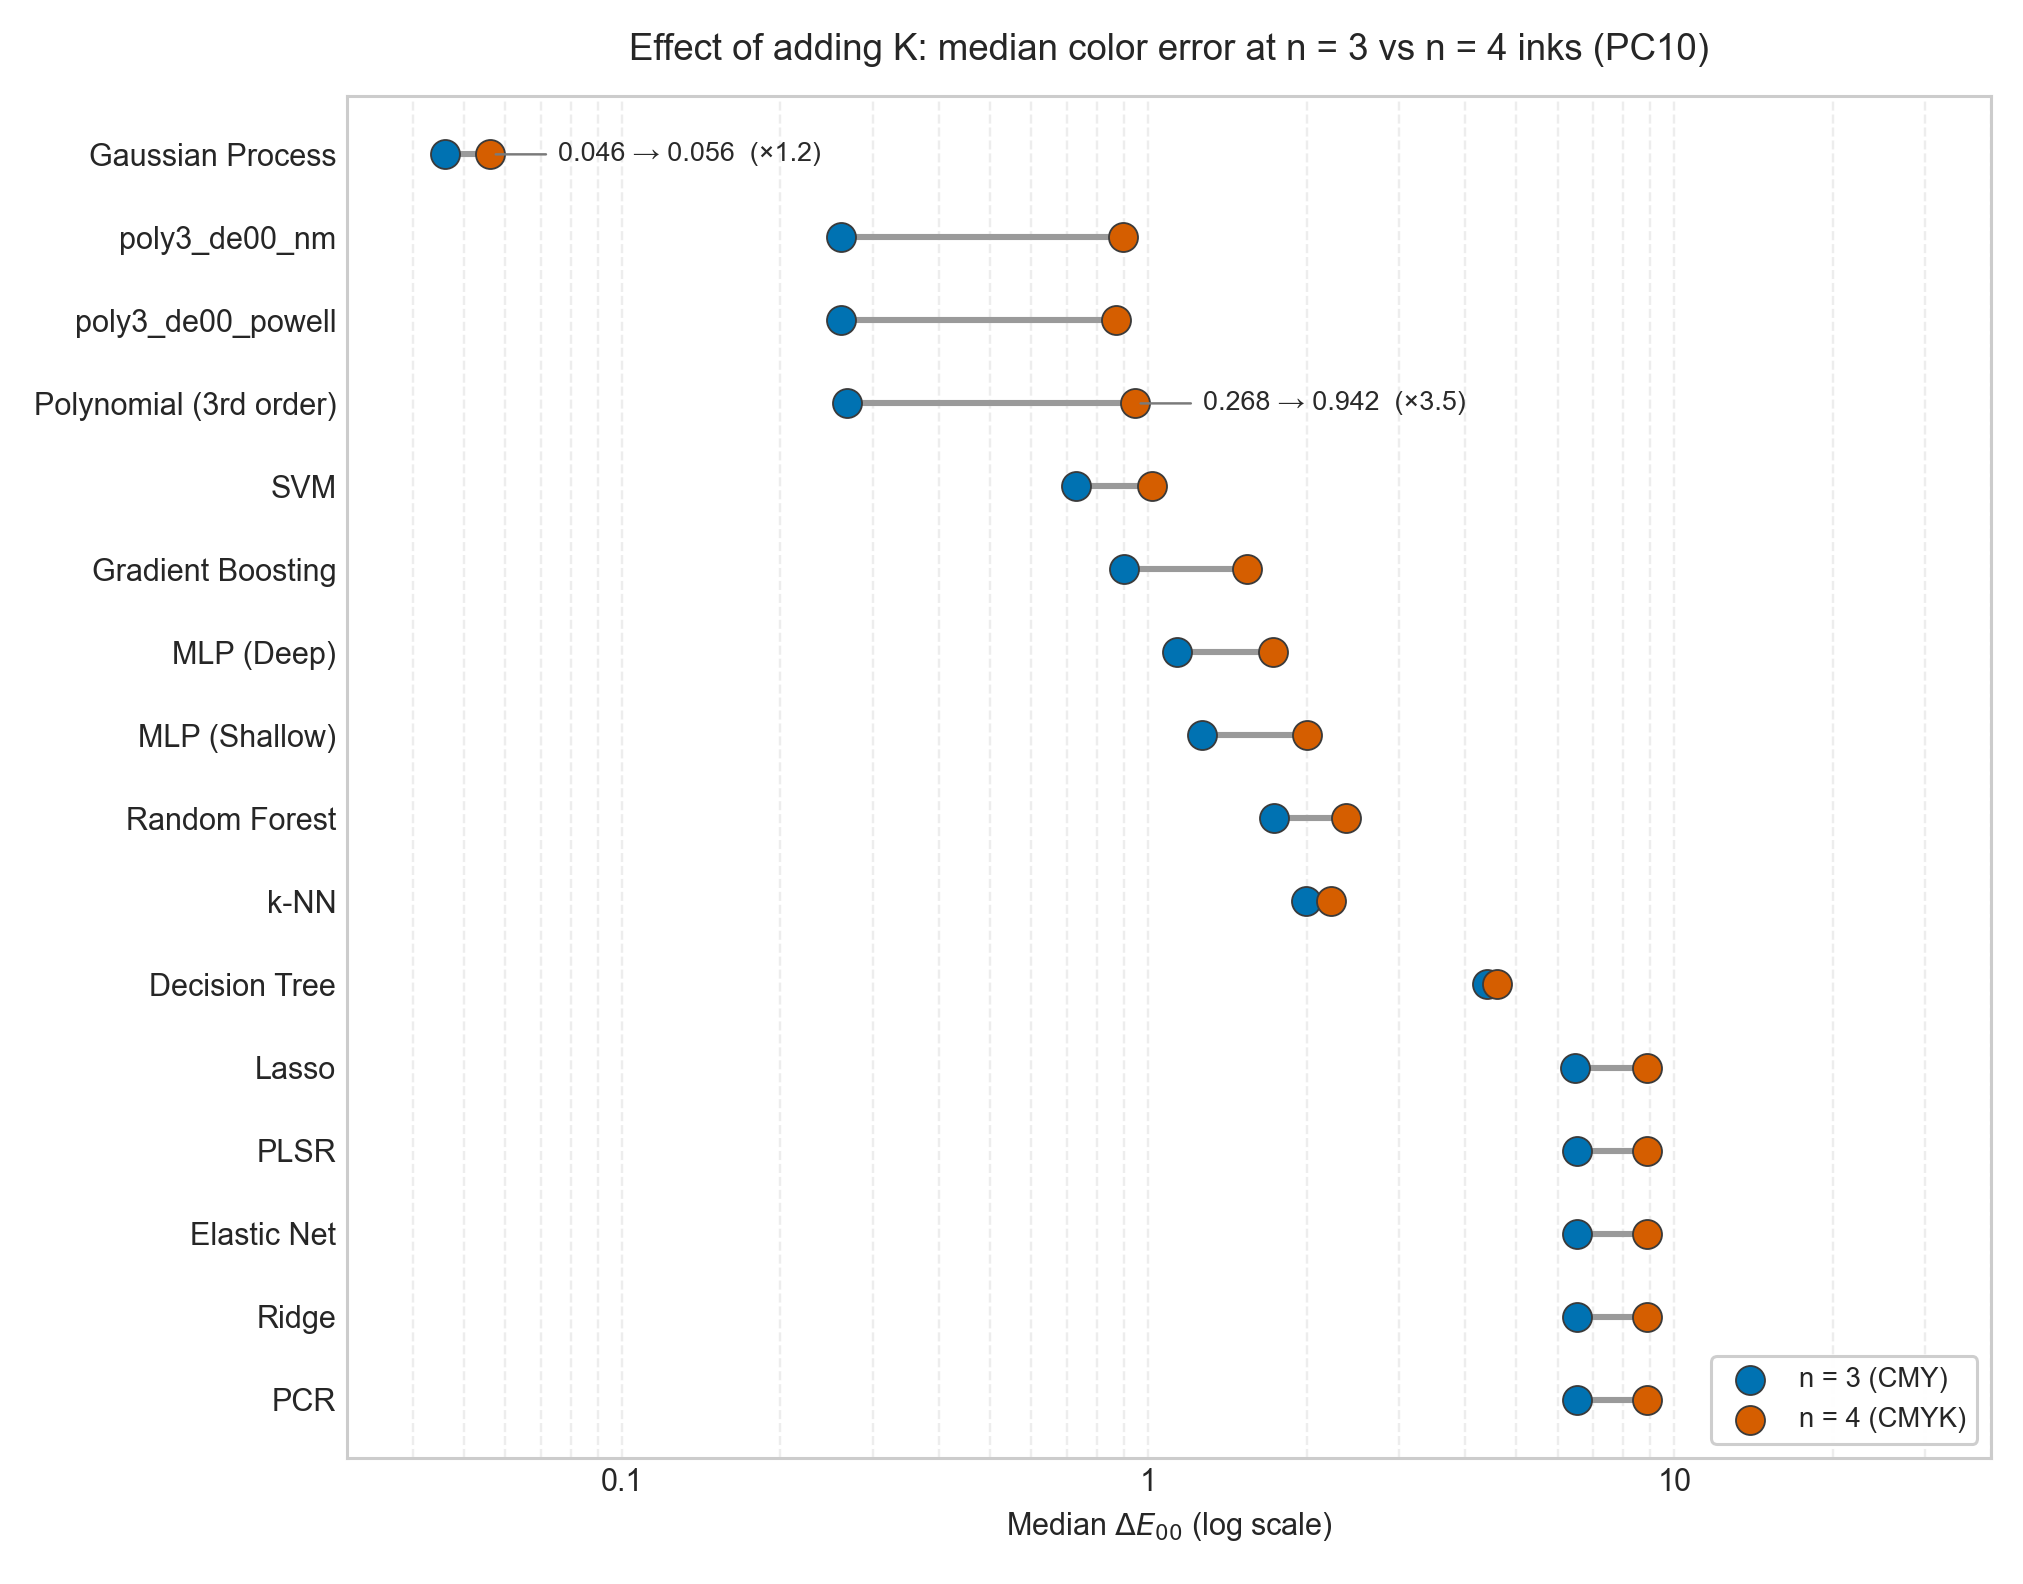
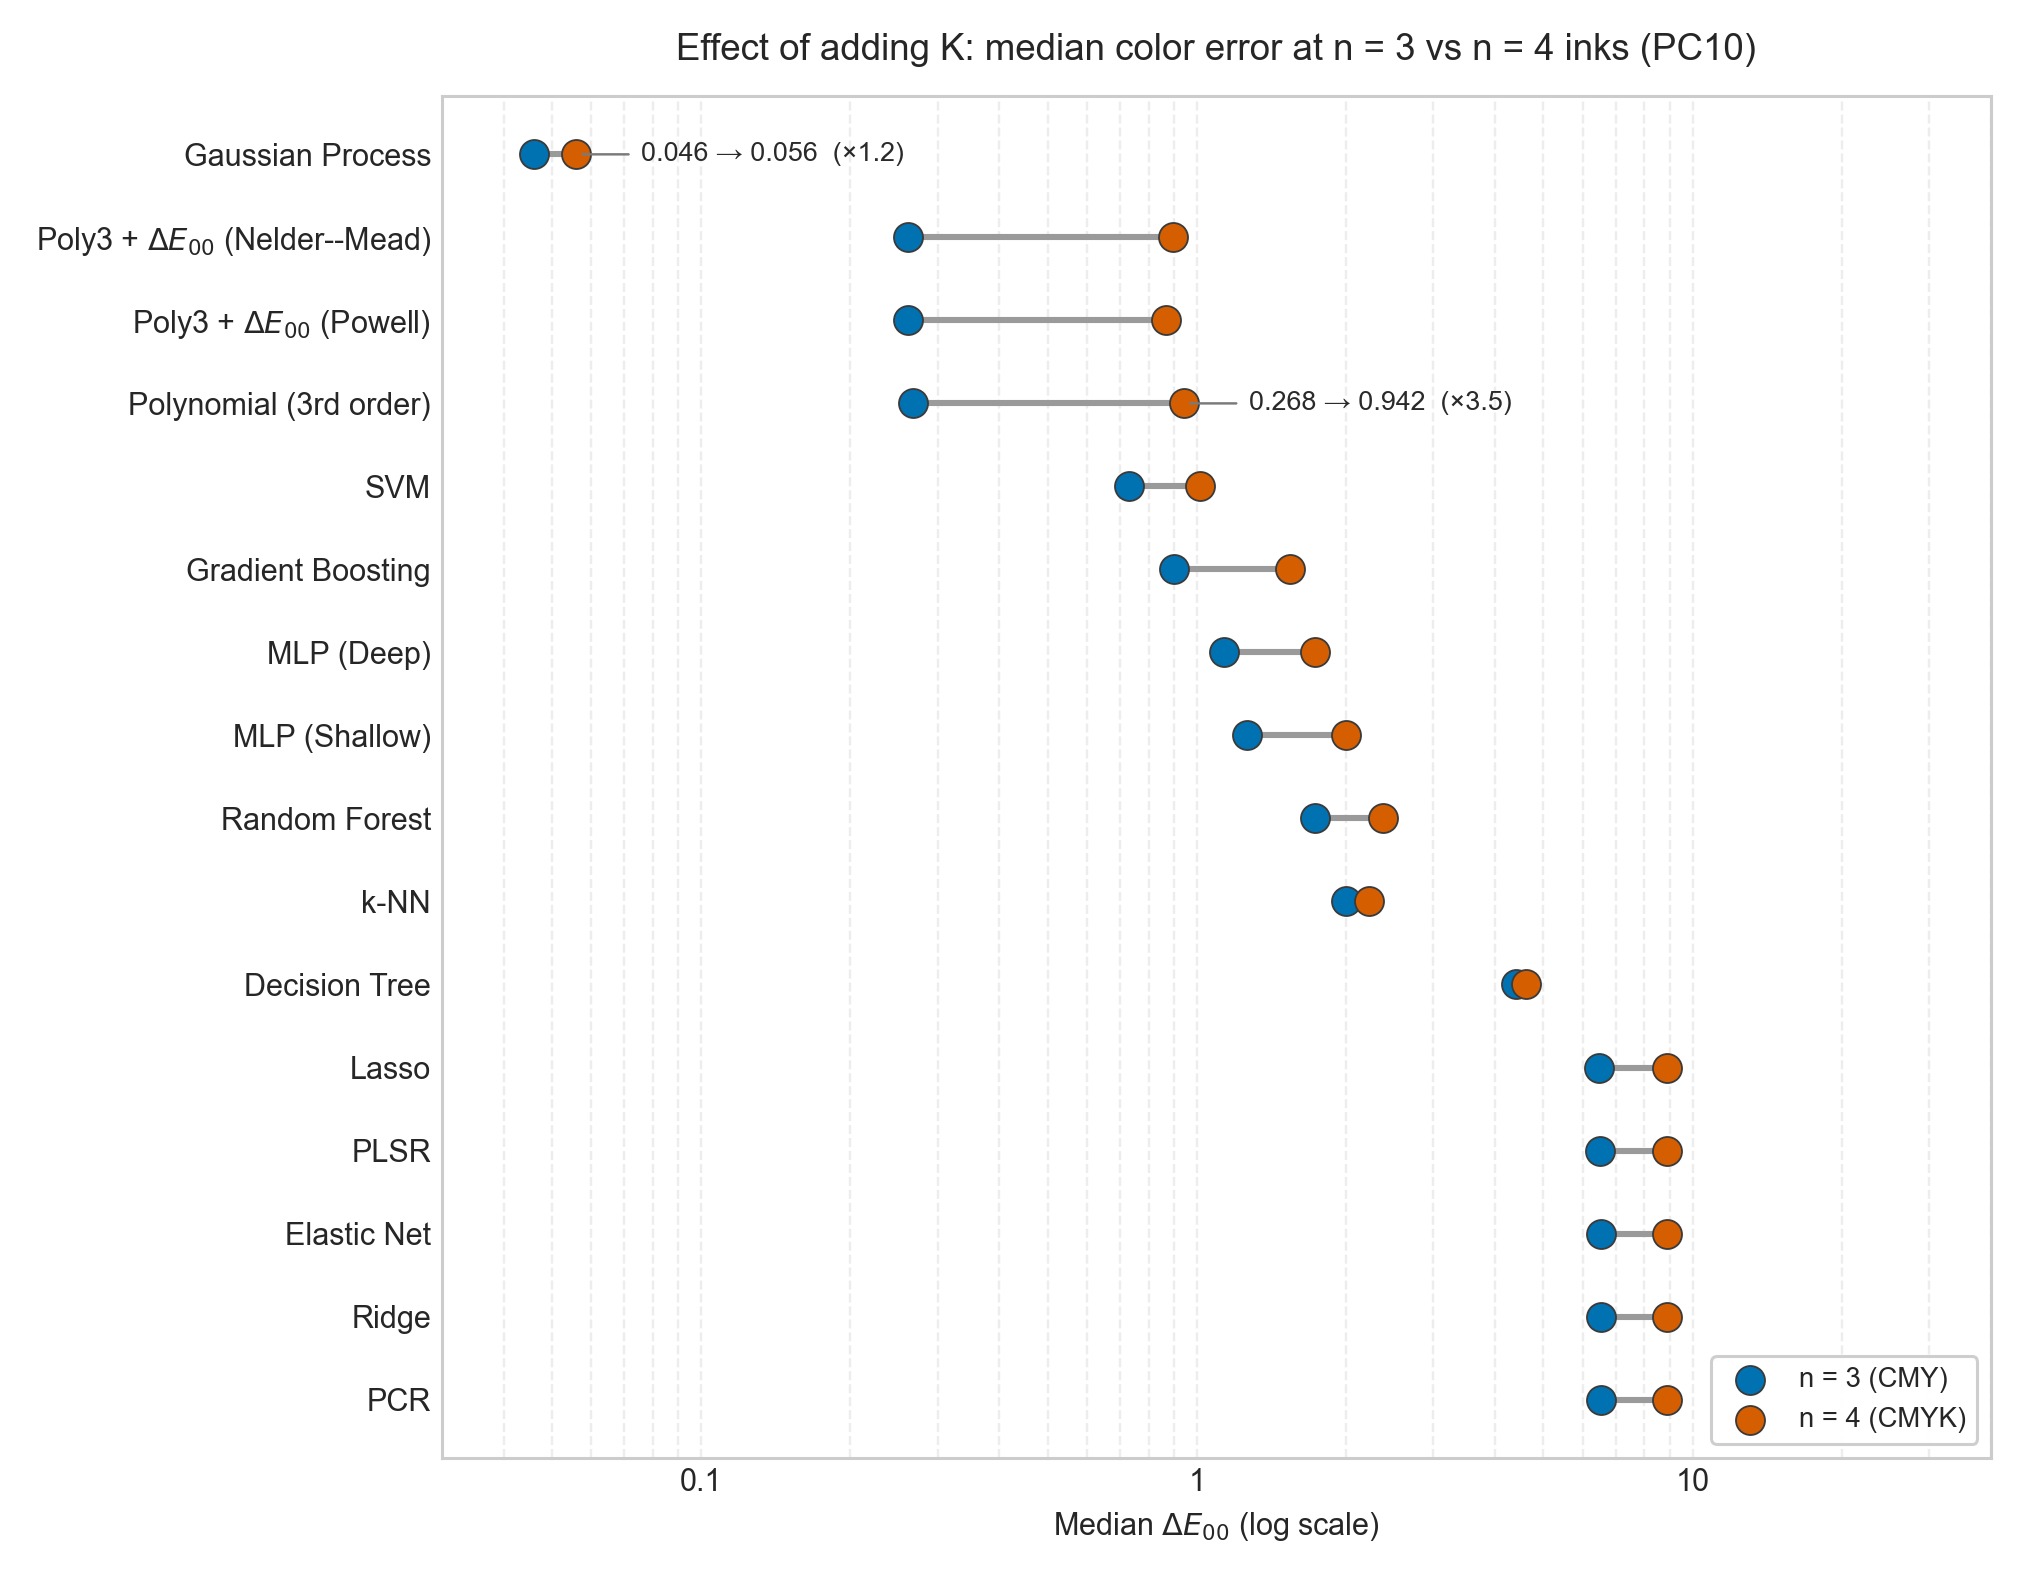
figures: label the two direct-dE00 poly3 variants (they now appear at n=4)

diff --git a/journal/figures/fig_n3_vs_n4.py b/journal/figures/fig_n3_vs_n4.py
@@ -44,6 +44,8 @@ MODEL_DISPLAY_NAMES = {
     "ridge": "Ridge",
     "pcr": "PCR",
     "plsr": "PLSR",
+    "poly3_de00_nm": "Poly3 + $\\Delta E_{00}$ (Nelder--Mead)",
+    "poly3_de00_powell": "Poly3 + $\\Delta E_{00}$ (Powell)",
 }
 
 # Models whose n=3 -> n=4 shift gets a direct callout label (selective labeling,

diff --git a/journal/figures/fig_n3_model_comparison.py b/journal/figures/fig_n3_model_comparison.py
@@ -48,6 +48,8 @@ MODEL_DISPLAY_NAMES = {
     "ridge": "Ridge",
     "pcr": "PCR",
     "plsr": "PLSR",
+    "poly3_de00_nm": "Poly3 + $\\Delta E_{00}$ (Nelder--Mead)",
+    "poly3_de00_powell": "Poly3 + $\\Delta E_{00}$ (Powell)",
 }
 
 JND = 1.0
